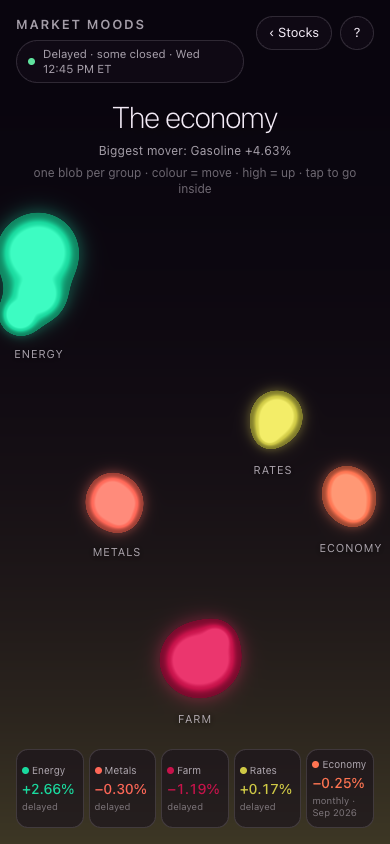
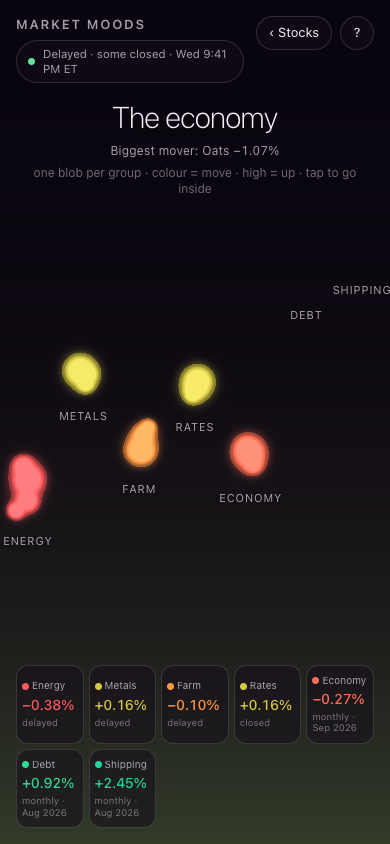
mm21-27 + mm20: debt & money and shipping & trade groups, 9 more commodities, IMF world debt; companies every 15 min
New FRED series (all live-checked 09-30): TOTALSL, REVOLSL, GFDEBTN (quarterly), M1SL, BOPGSTB (new 'bn' kind:
a negative balance can't be a % change), Cass shipments + spending, trucking PPI. IMF DataMapper world gov
debt/GDP (yearly, past years only). Yahoo: palladium, cocoa, oats, rice, OJ, live/feeder cattle, hogs, lumber.
Not live, named with reasons: propane (too thin), ethanol, Baltic Dry, UPS/FedEx, trade by country (Census key),
central-bank gold (IMF reserves API empty), central-bank crypto. Front page: short labels, collision nudge,
economy-check rung for the front-page blobs (mutation-tested). check.js/economy-check: 7 groups,
quarterly/yearly rhythms, daily-close label.

diff --git a/index.html b/index.html
@@ -233,7 +233,7 @@
     <dt>Colour</dt><dd>Today's move from yesterday's close. Red is falling, amber is flat, green is rising.</dd>
     <dt>Height</dt><dd>Rising indexes float up; falling ones sink. The top and bottom of the lamp are a 1% move.</dd>
     <dt>Size</dt><dd>Bigger means a bigger move either way. A quiet index is a small blob.</dd>
-    <dt>Economy</dt><dd>The smaller blobs on the right are the economy's groups: energy, metals, farm goods, Treasury rates and the slow numbers. Same colour, height and size rules; each shows its latest move (they do not replay the day). Tap one, or its name, to see its members.</dd>
+    <dt>Economy</dt><dd>The smaller blobs on the right are the economy's groups: energy, metals, farm goods, rates and the dollar, the slow numbers, debt and money, and shipping and trade. Same colour, height and size rules; each shows its latest move (they do not replay the day). Tap one, or its name, to see its members.</dd>
     <dt>Motion</dt><dd>How choppy the last hour was. A steady index drifts slowly and stays whole; a choppy one churns and throws off droplets.</dd>
     <dt>Mood</dt><dd>The average move of the four: Fearful, Uneasy, Calm, Buoyant or Euphoric.</dd>
     <dt>Fear</dt><dd id="helpFear">The VIX, the market's own fear gauge.</dd>
@@ -286,12 +286,12 @@
       const gs = (d.groups || []).filter(g => g.members && g.members.length).map(g => {
         const ms = g.members.map(m => ({ m, move: Mood.econMove(m.kind, m.prev, m.last) })).filter(x => x.move);
         const fc = ms.filter(x => !Mood.econSlow(x.m)).map(x => Mood.econChop(x.m)).filter(c => c != null);
-        return { key: g.key, name: g.name, pct: Mood.econGroupPct(ms), chop: fc.length ? fc.reduce((a, b) => a + b, 0) / fc.length : null };
+        return { key: g.key, name: g.name, short: g.short || g.name, pct: Mood.econGroupPct(ms), chop: fc.length ? fc.reduce((a, b) => a + b, 0) / fc.length : null };
       }).filter(g => g.pct != null).slice(0, ECON_MAX);
       gs.forEach((g, i) => {
         const L = econ.find(e => e.key === g.key);
-        if (L) Object.assign(L, { name: g.name, target: g.pct, chop: g.chop });
-        else econ.push({ key: g.key, name: g.name, target: g.pct, chop: g.chop, pct: g.pct, h: Mood.height(g.pct), sz: Mood.size(g.pct),
+        if (L) Object.assign(L, { name: g.name, short: g.short, target: g.pct, chop: g.chop });
+        else econ.push({ key: g.key, name: g.name, short: g.short, target: g.pct, chop: g.chop, pct: g.pct, h: Mood.height(g.pct), sz: Mood.size(g.pct),
                          sp: 1, ph: 40 + i * 10, col: Mood.colour(g.pct), drops: makeDrops() });
       });
       for (let i = econ.length - 1; i >= 0; i--) if (!gs.some(g => g.key === econ[i].key)) econ.splice(i, 1);
@@ -442,7 +442,7 @@
   // ---------- WebGL lamp ----------
   const canvas = $("lamp");
   const gl = canvas.getContext("webgl", { antialias: false, premultipliedAlpha: false, alpha: false });
-  const ECON_MAX = 6;                           // economy group blobs beside the four indexes (mm19)
+  const ECON_MAX = 8;                           // economy group blobs beside the four indexes (mm19)
   const N = (4 + ECON_MAX) * DROPS;
   let prog, uRes, uBalls, uCols, uBgTop, uBgBot, uHeat, uFear;
   if (gl) {
@@ -639,13 +639,21 @@
         if (CELL_KEYS.includes(ix.key)) { if (canOpen(ix.key)) { s.className = "door"; s.title = "Look inside"; }
           s.onclick = e => { if (openCell(ix.key)) e.stopPropagation(); }; }
         tags.appendChild(s); });
-      econ.forEach(g => { const a = document.createElement("span"); a.textContent = g.name; a.className = "door econ";
+      econ.forEach(g => { const a = document.createElement("span"); a.textContent = g.short; a.className = "door econ";
         a.title = "Look inside " + g.name; a.onclick = () => { location.href = "economy.html#g=" + g.key; }; tags.appendChild(a); });
     }
     lanes.concat(econ).forEach((L, i) => { if (L.tagX == null) return; const s = tags.children[i];
       const half = s.offsetWidth / 2 / innerWidth;   // a label never runs off either edge of the screen
       s.style.left = (clampN(L.tagX, half + 0.01, 1 - half - 0.01) * 100).toFixed(2) + "%"; s.style.bottom = (Math.max(0, L.tagY) * 100).toFixed(2) + "%";
       s.style.visibility = "visible"; });
+    // economy labels sit close together: one that would touch the label before it drops a line
+    let prev = null;
+    for (const s of [...tags.children].slice(data.indexes.length)) {
+      const r = s.getBoundingClientRect();
+      if (prev && r.left < prev.right + 4 && r.right > prev.left - 4 && r.top < prev.bottom + 2 && r.bottom > prev.top - 2)
+        s.style.bottom = Math.max(0, innerHeight - prev.bottom - r.height - 2) + "px";   // sit just under the label before it
+      prev = s.getBoundingClientRect();
+    }
     $("moodWord").textContent = Mood.moodWord(avgPctShown);
     $("moodWord").style.color = hex(Mood.colour(avgPctShown).map(v => v * 0.35 + 0.65));
     $("moodSub").textContent = "Average move " + fmtPct(avgPctShown);

diff --git a/check.js b/check.js
@@ -204,6 +204,10 @@ near(M.econMove("pt", 4.1, 4.2).pct, 1, "econ pt: 0.1 point counts as 1%");
 near(M.econMove("jobs", 100000, 100150).pct, 1, "econ jobs: 150k jobs counts as 1%");
 ok(M.econMove("pct", 0, 5) === null && M.econMove("bp", NaN, 5) === null && M.econMove("nope", 1, 2) === null, "econ: no move rather than a made-up one");
 ok(M.econMove("bp", 5, 5.06).text === "+6 bp" && M.econMove("pct", 100, 98.5).text === "−1.50%" && M.econMove("jobs", 1, 163).text === "+162k jobs", "econ: the words say the unit");
+near(M.econMove("bn", -88576, -78576).pct, 2, "econ bn: a $10 bn narrower trade gap counts as +2%");
+ok(M.econMove("bn", -88576, -98576).text === "−$10.0 bn" && M.econMove("bn", 1, 1).text === "$0.0 bn", "econ bn: the words say dollars, sign first, no -0");
+ok(M.econSlow({ freq: "quarterly" }) && M.econSlow({ freq: "yearly" }), "econ: quarterly and yearly are slow");
+ok(M.econAsOf({ freq: "quarterly", asof: "2026-04-01" }, 0).label === "quarterly · Q2 2026" && M.econAsOf({ freq: "yearly", asof: "2025-01-01" }, 0).label === "yearly · 2025", "econ time: quarterly names its quarter, yearly its year");
 ok(M.econSlow({ freq: "monthly" }) && M.econSlow({ freq: "weekly" }) && !M.econSlow({ freq: "5min" }) && !M.econSlow({ freq: "daily" }), "econ: weekly and monthly are slow");
 { // a group of market prices averages only the prices; slow numbers only enter a group made of nothing else
   const mv = (freq, pct) => ({ m: { freq }, move: { pct } });
@@ -235,19 +239,21 @@ ok(M.econSlow({ freq: "monthly" }) && M.econSlow({ freq: "weekly" }) && !M.econS
   if (!fs.existsSync(ef)) console.log("… data/economy.json missing: the economy page shows its honest 'couldn't load' notice");
   else {
     const e = JSON.parse(fs.readFileSync(ef, "utf8")), today = Date.now() / 1000, day = 86400;
-    ok(e.groups.map(g => g.key).join() === "energy,metals,farm,rates,macro", "economy: the five groups, in order: " + e.groups.map(g => g.key));
+    ok(e.groups.map(g => g.key).join() === "energy,metals,farm,rates,macro,debt,shipping", "economy: the seven groups, in order: " + e.groups.map(g => g.key));
     const seen = new Set(), all = [];
     for (const g of e.groups) {
       ok(g.members.length >= 3, `${g.key}: at least 3 members live (${g.members.length})`);
       for (const m of g.members) {
         ok(!seen.has(m.key), `${m.key}: not in two groups`); seen.add(m.key); all.push(m);
-        ok(["pct", "bp", "pt", "jobs"].includes(m.kind) && ["5min", "daily", "weekly", "monthly"].includes(m.freq), `${m.key}: known kind and rhythm`);
+        ok(["pct", "bp", "pt", "jobs", "bn"].includes(m.kind) && ["5min", "daily", "weekly", "monthly", "quarterly", "yearly"].includes(m.freq), `${m.key}: known kind and rhythm`);
         ok(Number.isFinite(m.prev) && Number.isFinite(m.last) && m.name && m.unit && m.src && m.short, `${m.key}: real numbers, named, with unit and source`);
         const mv = M.econMove(m.kind, m.prev, m.last);
         ok(mv && Math.abs(mv.pct) < 30, `${m.key}: a move exists and is under 30% (${mv && mv.text}): a bigger one is a parse bug, not news`);
         ok(/^\d{4}-\d{2}-\d{2}$/.test(m.asof), `${m.key}: dated`);
         const age = (today - Date.parse(m.asof + "T12:00:00Z") / 1000) / day;
-        const limit = { "5min": 10, daily: 10, weekly: 21, monthly: 100 }[m.freq];
+        // quarterly is dated by its quarter's first day and lands ~3 months after it ends; yearly (IMF WEO) is the last
+        // full year, so 2025-01-01 stays the newest until the April 2027 WEO: ~820 days at worst
+        const limit = { "5min": 10, daily: 10, weekly: 21, monthly: 100, quarterly: 300, yearly: 850 }[m.freq];
         // staleness is only a failure where the economy file is what is being refreshed (economy.yml passes
         // --fresh); in the index and companies workflows an old economy file must not block stock data
         if (FRESH) ok(age >= -1 && age <= limit, `${m.key}: ${m.freq} number dated ${m.asof} is ${age.toFixed(0)} days old, limit ${limit}`);

diff --git a/mood.js b/mood.js
@@ -170,10 +170,13 @@
     if (kind === "bp") { const d = (last - prev) * 100; return { raw: d, pct: d / 10, text: signed(d, 0, " bp") }; }
     if (kind === "pt") { const d = last - prev; return { raw: d, pct: d * 10, text: signed(d, 1, " pt") }; }
     if (kind === "jobs") { const d = last - prev; return { raw: d, pct: d / 150, text: signed(d, 0, "k jobs") }; }
+    // ponytail: a $5 bn swing counts as 1% (a scale like payrolls' 150k); the trade balance is negative, so a
+    // percent change would flip its meaning. Input in $ million (FRED BOPGSTB). Upgrade: scale by its own spread.
+    if (kind === "bn") { const d = (last - prev) / 1000; return { raw: d, pct: d / 5, text: (d > 0 ? "+$" : d < 0 ? MINUS + "$" : "$") + Math.abs(+d.toFixed(1)).toFixed(1) + " bn" }; }
     return null;
   }
   // slow = a weekly or monthly release: no last hour to be choppy in, and it never moves between releases
-  const econSlow = m => m.freq === "weekly" || m.freq === "monthly";
+  const econSlow = m => m.freq === "weekly" || m.freq === "monthly" || m.freq === "quarterly" || m.freq === "yearly";
   // the last hour's choppiness of a market-traded member, in the same units as its move (so a yield
   // and an oil future are judged by the same rule): the spread of bar-to-bar moves of its
   // percent-equivalent path over the last ~hour of prints. null when fewer than 4 prints fall in that
@@ -199,6 +202,8 @@
     const tz = { timeZone: "America/New_York" }, d = new Date(m.asof + "T12:00:00Z");
     const day = (o) => d.toLocaleDateString("en-US", Object.assign({ timeZone: "UTC" }, o));
     if (m.freq === "monthly") return { slow: true, live: false, label: "monthly \u00b7 " + day({ month: "short", year: "numeric" }) };
+    if (m.freq === "quarterly") return { slow: true, live: false, label: "quarterly \u00b7 Q" + (Math.floor(+m.asof.slice(5, 7) / 3) + 1) + " " + m.asof.slice(0, 4) };
+    if (m.freq === "yearly") return { slow: true, live: false, label: "yearly \u00b7 " + m.asof.slice(0, 4) };
     if (m.freq === "weekly") return { slow: true, live: false, label: "weekly \u00b7 " + day({ month: "short", day: "numeric" }) };
     if (m.freq === "daily") return { slow: false, live: false, label: "daily close \u00b7 " + day({ month: "short", day: "numeric" }) };
     const age = (nowMs / 1000 - m.last_time) / 60, t = new Date(m.last_time * 1000);

diff --git a/economy.html b/economy.html
@@ -5,7 +5,7 @@
 <meta name="viewport" content="width=device-width,initial-scale=1,viewport-fit=cover">
 <meta name="theme-color" content="#0a0610">
 <title>Market Moods: the economy</title>
-<meta name="description" content="A moving picture of the economy: energy, metals, farm goods, Treasury rates and the slow macro numbers, each group a blob with its members inside.">
+<meta name="description" content="A moving picture of the economy: energy, metals, farm goods, rates and the dollar, the slow macro numbers, debt and money, and shipping and trade, each group a blob with its members inside.">
 <style>
   :root { --bg: #0a0610; --ink: #f4ecf7; --ink-2: rgba(244, 236, 247, .66); --ink-3: rgba(244, 236, 247, .42);
     --glass: rgba(20, 12, 26, .55); --line: rgba(244, 236, 247, .14); --up: #5fe39e; --down: #ff6b7a; --flat: #ffb13b; }
@@ -137,7 +137,7 @@
 <dialog id="help" aria-labelledby="helpTitle">
   <h2 id="helpTitle">How to read it</h2>
   <dl>
-    <dt>Blob</dt><dd>One group of alike things: energy, metals, farm goods, Treasury rates, and the economy's slow numbers. Tap a blob to go inside and see each member.</dd>
+    <dt>Blob</dt><dd>One group of alike things: energy, metals, farm goods, rates and the dollar, the economy's slow numbers, debt and money, and shipping and trade. Tap a blob to go inside and see each member.</dd>
     <dt>Colour</dt><dd>The move, on the same scale as the stock lamp: amber is flat, green rising, red falling, full at 1%. It follows the direction of the number, not whether that is good news: rising unemployment is green here, like rising oil.</dd>
     <dt>Height</dt><dd>Up floats, down sinks. Inside a group the reach is 2.5%, as inside a company view.</dd>
     <dt>Size</dt><dd>A bigger move is a bigger blob. There is no market value to size a price by.</dd>

diff --git a/fetch.py b/fetch.py
@@ -323,6 +323,7 @@ ECON = [
         ("silver", "Silver", "y", "SI=F", "pct", "$ / oz", "5min"),
         ("copper", "Copper", "y", "HG=F", "pct", "$ / lb", "5min"),
         ("platinum", "Platinum", "y", "PL=F", "pct", "$ / oz", "5min"),
+        ("palladium", "Palladium", "y", "PA=F", "pct", "$ / oz", "5min"),
         ("aluminium", "Aluminium", "y", "ALI=F", "pct", "$ / tonne", "5min"),
         ("steel", "Hot-rolled steel", "y", "HRC=F", "pct", "$ / short ton", "5min")]),
     ("farm", "Farm goods", "Farm", [
@@ -331,7 +332,15 @@ ECON = [
         ("wheat", "Wheat", "y", "ZW=F", "pct", "cents / bushel", "5min"),
         ("cotton", "Cotton", "y", "CT=F", "pct", "cents / lb", "5min"),
         ("coffee", "Coffee", "y", "KC=F", "pct", "cents / lb", "5min"),
-        ("sugar", "Sugar", "y", "SB=F", "pct", "cents / lb", "5min")]),
+        ("sugar", "Sugar", "y", "SB=F", "pct", "cents / lb", "5min"),
+        ("cocoa", "Cocoa", "y", "CC=F", "pct", "$ / tonne", "5min"),
+        ("oats", "Oats", "y", "ZO=F", "pct", "cents / bushel", "5min"),
+        ("rice", "Rough rice", "y", "ZR=F", "pct", "$ / hundredweight", "5min"),
+        ("oj", "Orange juice", "y", "OJ=F", "pct", "cents / lb", "5min"),
+        ("cattle", "Live cattle", "y", "LE=F", "pct", "cents / lb", "5min"),
+        ("feeder", "Feeder cattle", "y", "GF=F", "pct", "cents / lb", "5min"),
+        ("hogs", "Lean hogs", "y", "HE=F", "pct", "cents / lb", "5min"),
+        ("lumber", "Lumber", "y", "LBR=F", "pct", "$ / 1,000 board ft", "5min")]),
     ("rates", "Rates & the dollar", "Rates", [
         ("t3m", "3-month bill", "y", "^IRX", "bp", "% yield", "5min"),
         ("t5y", "5-year note", "y", "^FVX", "bp", "% yield", "5min"),
@@ -348,13 +357,33 @@ ECON = [
         ("retail", "Retail sales", "f", "RSAFS", "pct", "$ million / month", "monthly"),
         ("spending", "Consumer spending (PCE)", "f", "PCE", "pct", "$ billion / year", "monthly"),
         ("homes", "Home values (Case-Shiller)", "f", "CSUSHPINSA", "pct", "index", "monthly")]),
+    ("debt", "Debt & money", "Debt", [
+        ("credit", "Consumer credit", "f", "TOTALSL", "pct", "$ million owed", "monthly"),
+        ("cards", "Card & revolving debt", "f", "REVOLSL", "pct", "$ million owed", "monthly"),
+        ("fedDebt", "Federal debt", "f", "GFDEBTN", "pct", "$ million owed", "quarterly"),
+        ("m1", "Money supply (M1)", "f", "M1SL", "pct", "$ billion", "monthly"),
+        ("worldDebt", "World government debt", "i", "GGXWDG_NGDP/WEOWORLD", "pct", "% of world GDP", "yearly")]),
+    ("shipping", "Shipping & trade", "Shipping", [
+        ("trade", "Trade balance", "f", "BOPGSTB", "bn", "$ million / month", "monthly"),
+        ("cassShip", "Freight shipments (Cass)", "f", "FRGSHPUSM649NCIS", "pct", "index", "monthly"),
+        ("cassSpend", "Freight spending (Cass)", "f", "FRGEXPUSM649NCIS", "pct", "index", "monthly"),
+        ("trucking", "Trucking prices (PPI)", "f", "PCU484121484121", "pct", "index", "monthly")]),
 ]
 # things Clark asked for that no free keyless source carries: listed on the page, never faked
 ECON_SHORT = {"mortgage": "Mortgage", "cpi": "CPI", "unemp": "Unemp.", "payrolls": "Payrolls", "claims": "Claims",
               "sentiment": "Sentiment", "retail": "Retail", "spending": "Spending", "homes": "Homes", "dollar": "Dollar", "t3m": "3-month", "t5y": "5-year",
               "t10y": "10-year", "t30y": "30-year", "natgas": "Nat. gas", "heatoil": "Heating oil", "steel": "Steel",
-              "aluminium": "Aluminium", "brent": "Brent", "wti": "WTI"}     # a blob's label; the full name rides in the tooltip
-ECON_MISSING = [("metals", "Cobalt", "no free public price series (LME and Fastmarkets are paid; FRED has none)")]
+              "aluminium": "Aluminium", "brent": "Brent", "wti": "WTI", "credit": "Credit", "cards": "Cards", "fedDebt": "Fed. debt",
+              "m1": "M1", "worldDebt": "World debt", "trade": "Trade", "cassShip": "Shipments", "cassSpend": "Freight $",
+              "trucking": "Trucking", "feeder": "Feeder", "oj": "OJ"}     # a blob's label; the full name rides in the tooltip
+ECON_MISSING = [("metals", "Cobalt", "no free public price series (LME and Fastmarkets are paid; FRED has none)"),
+                ("energy", "Propane", "Yahoo lists Mont Belvieu propane (B0=F) but it printed once in 5 days: too thin for a move"),
+                ("energy", "Ethanol", "Yahoo's ethanol future (EH=F) returns no prices; no other free keyless feed"),
+                ("shipping", "Baltic Dry Index", "licensed by the Baltic Exchange; no free feed (Cass freight indexes stand in)"),
+                ("shipping", "UPS / FedEx rates", "published as rate cards, not a data feed"),
+                ("shipping", "Trade by country", "the Census trade API now requires a key"),
+                ("debt", "Central-bank reserve holdings", "gold held by central banks: the IMF reserves API returned no data when tested; World Gold Council needs a login"),
+                ("debt", "Central-bank crypto holdings", "no official series: only private trackers' estimates")]
 
 def parse_fred(text):
     """[(date 'YYYY-MM-DD', value)] from a fredgraph.csv; FRED's '.' (no reading) rows are dropped."""
@@ -414,6 +443,22 @@ def get_fred(sid):
             return parse_fred(r.read().decode())
     return _retry(call)
 
+# IMF DataMapper (keyless JSON, World Economic Outlook): one value per year, and the WEO carries
+# projections years ahead, so only years before this one count as readings (2025 vs 2024 in 2026).
+# ponytail: yearly and an IMF estimate; upgrade = the IMF's own quarterly debt database, which needs SDMX.
+IMF = "https://www.imf.org/external/datamapper/api/v1/{ind}/{area}"
+def parse_imf(d, ind, area, year):
+    """Pure. [(YYYY-01-01, value)] for past years only."""
+    vals = d["values"][ind][area]
+    return [(f"{y}-01-01", float(v)) for y, v in sorted(vals.items()) if int(y) < year and v is not None]
+
+def get_imf(spec):
+    ind, area = spec.split("/")
+    def call():
+        with urllib.request.urlopen(IMF.format(ind=ind, area=area), timeout=30) as r:
+            return parse_imf(json.load(r), ind, area, datetime.now(timezone.utc).year)
+    return _retry(call)
+
 def build_economy(prev=None):
     old = {m["key"]: m for g in (prev or {}).get("groups", []) for m in g["members"]}   # last good file, for a series that fails right now
     groups, missing = [], [{"group": g, "name": n, "why": w} for g, n, w in ECON_MISSING]
@@ -425,6 +470,8 @@ def build_economy(prev=None):
                     try: intr = get(spec[3], "5m", "5d")
                     except Exception: intr = None
                     mem.append(econ_yahoo(spec, get(spec[3], "1d", "1mo"), intr)); time.sleep(0.3)
+                elif spec[2] == "i":
+                    mem.append(econ_fred(spec, get_imf(spec[3])))
                 else:
                     mem.append(econ_fred(spec, get_fred(spec[3])))
             except Exception as e:      # one dead series never blocks the rest, and is never faked
@@ -435,7 +482,7 @@ def build_economy(prev=None):
         groups.append({"key": gkey, "name": gname, "short": gshort, "members": mem})
     for g in groups:
         for m in g["members"]: m["short"] = ECON_SHORT.get(m["key"], m["name"])
-    return {"generated_at": int(time.time()), "source": "Yahoo Finance (delayed futures and yields) and FRED (each series at its own release rhythm)",
+    return {"generated_at": int(time.time()), "source": "Yahoo Finance (delayed futures and yields), FRED and the IMF (each series at its own release rhythm)",
             "groups": groups, "missing": missing}
 
 def selfcheck():
@@ -495,6 +542,11 @@ def selfcheck():
     # the fear gauge (VIX) reuses shape() itself, not a parallel parser — same function, key "vix"
     vs = shape("vix", "VIX", "^VIX", intr, daily)
     assert vs["key"] == "vix" and vs["last"] == 103.0, vs
+    # IMF: projections (this year and later) are not readings; a missing year is dropped
+    imf = {"values": {"D": {"W": {"2023": 90.8, "2024": 92, "2025": 93.9, "2026": 95.3, "2027": 97.2}}}}
+    assert parse_imf(imf, "D", "W", 2026) == [("2023-01-01", 90.8), ("2024-01-01", 92.0), ("2025-01-01", 93.9)]
+    # every ECON spec has a known source and rhythm (a typo'd "q" would silently land in the FRED branch)
+    assert all(s[2] in "yfi" and s[6] in ("5min", "weekly", "monthly", "quarterly", "yearly") for _, _, _, sp in ECON for s in sp)
     # economy: parse_fred drops '.' rows; a member is last-vs-the-close-before, dated by its own reading
     rows = parse_fred("observation_date,X\n2026-06-01,10\n2026-07-01,.\n2026-08-01,12.5\n")
     assert rows == [("2026-06-01", 10.0), ("2026-08-01", 12.5)], rows
